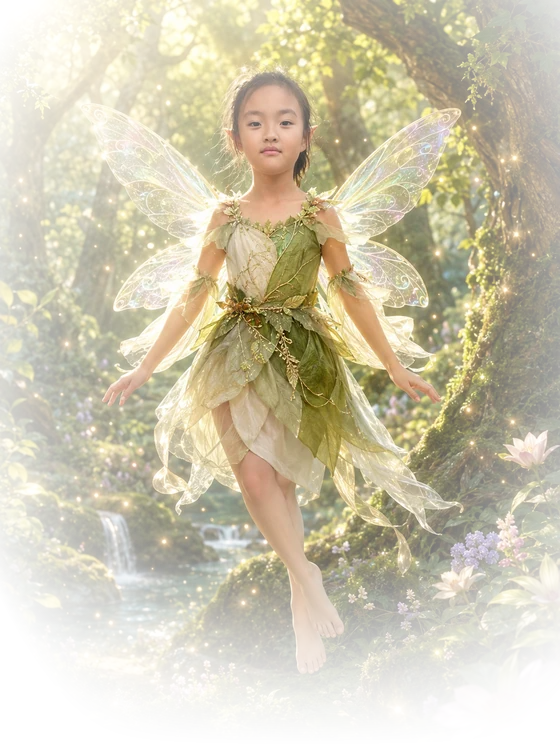
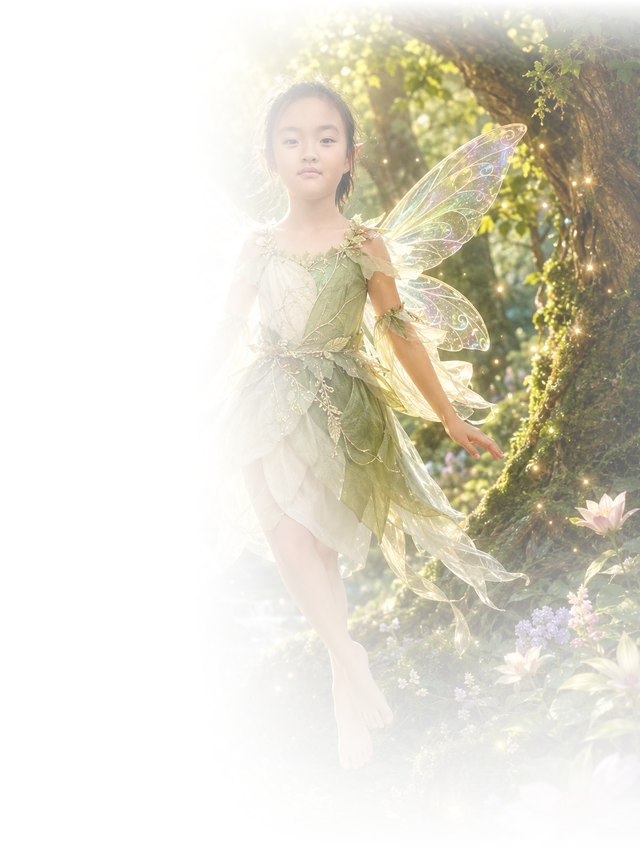
首页立绘再柔一点：边缘淡出融进欢迎卡

diff --git a/index.html b/index.html
@@ -94,11 +94,11 @@
     bottom: -12%;
     width: min(52%, 200px);
     height: auto;
-    opacity: .55;
+    opacity: .72;
     pointer-events: none;
     user-select: none;
-    mask-image: linear-gradient(90deg, transparent 0%, #000 28%, #000 100%);
-    -webkit-mask-image: linear-gradient(90deg, transparent 0%, #000 28%, #000 100%);
+    mask-image: linear-gradient(105deg, transparent 0%, transparent 12%, #000 48%, #000 100%);
+    -webkit-mask-image: linear-gradient(105deg, transparent 0%, transparent 12%, #000 48%, #000 100%);
   }
 
   @media (max-width: 420px) {
@@ -120,7 +120,7 @@
       width: 58%;
       right: -10%;
       bottom: -16%;
-      opacity: .48;
+      opacity: .62;
     }
   }
 
@@ -525,7 +525,7 @@
       right: 1%;
       bottom: -18%;
       width: 260px;
-      opacity: .58;
+      opacity: .70;
     }
 
     .catalog {
